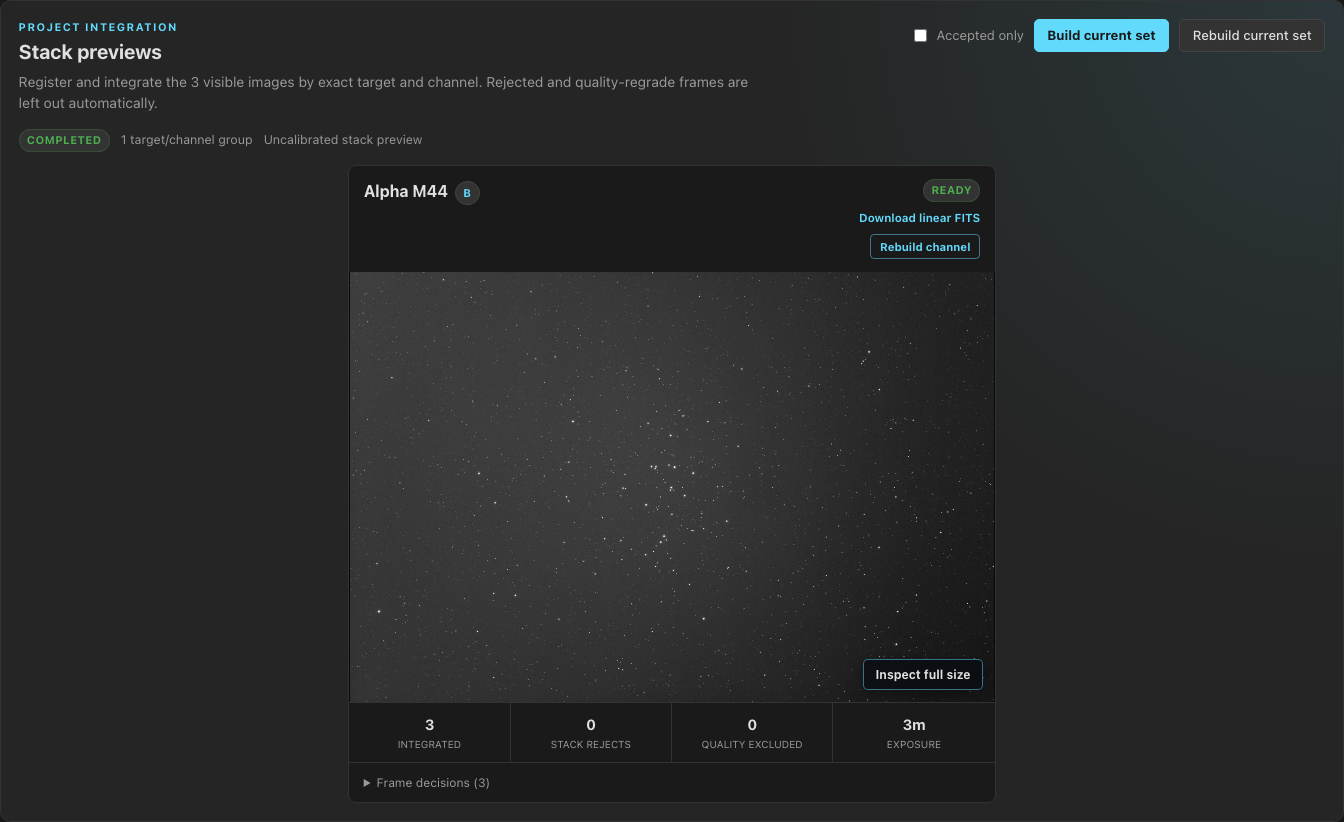
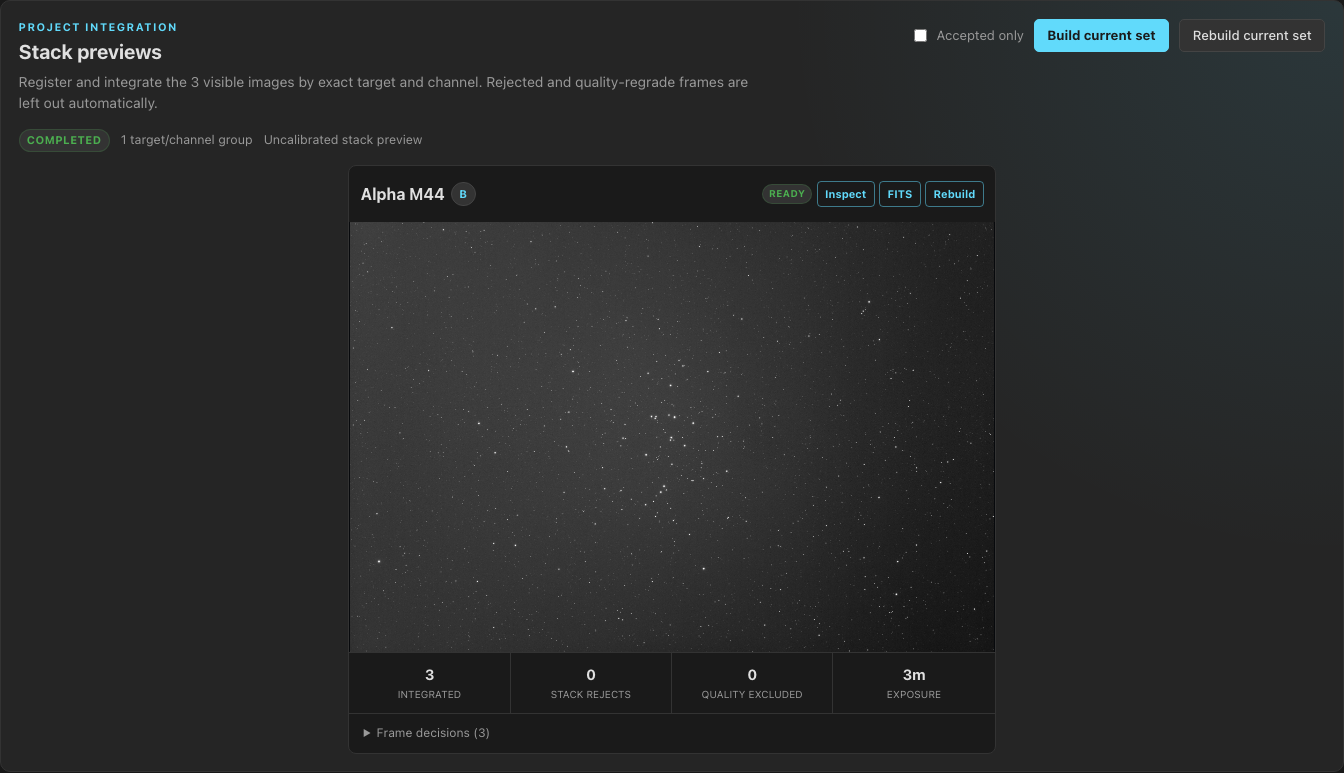
Compact stack previews and advance Seiza

diff --git a/static/src/App.css b/static/src/App.css
@@ -2659,17 +2659,60 @@
 
 .stack-preview-card > header {
   display: flex;
-  align-items: flex-start;
+  align-items: center;
   justify-content: space-between;
-  gap: 1rem;
-  padding: 0.8rem 0.9rem;
+  gap: 0.65rem;
+  min-height: 40px;
+  padding: 0.5rem 0.7rem;
+}
+
+.stack-preview-card-title {
+  min-width: 0;
+  display: flex;
+  align-items: center;
+  gap: 0.4rem;
 }
 
 .stack-preview-card-actions {
   display: flex;
-  align-items: flex-end;
-  gap: 0.45rem;
-  flex-direction: column;
+  flex-shrink: 0;
+  align-items: center;
+  justify-content: flex-end;
+  gap: 0.3rem;
+}
+
+.stack-preview-card-actions .stack-group-state {
+  padding: 0.12rem 0.35rem;
+  font-size: 0.61rem;
+}
+
+.stack-preview-card-action {
+  min-height: 26px;
+  display: inline-flex;
+  align-items: center;
+  justify-content: center;
+  box-sizing: border-box;
+  padding: 0.25rem 0.45rem;
+  border: 1px solid var(--color-primary-alpha-50);
+  border-radius: 4px;
+  color: var(--color-primary);
+  background: transparent;
+  cursor: pointer;
+  font-size: 0.68rem;
+  font-weight: 700;
+  line-height: 1;
+  text-decoration: none;
+  white-space: nowrap;
+}
+
+.stack-preview-card-action:hover:not(:disabled) {
+  color: var(--color-bg-primary);
+  background: var(--color-primary);
+}
+
+.stack-preview-card-action:disabled {
+  cursor: not-allowed;
+  opacity: 0.5;
 }
 
 .stack-preview-download {
@@ -2682,27 +2725,6 @@
 .stack-preview-download:hover {
   text-decoration: underline;
 }
-
-.stack-preview-channel-build {
-  padding: 0.32rem 0.55rem;
-  border: 1px solid var(--color-primary-alpha-50);
-  border-radius: 4px;
-  color: var(--color-primary);
-  background: transparent;
-  font-size: 0.7rem;
-  font-weight: 700;
-}
-
-.stack-preview-channel-build:hover:not(:disabled) {
-  color: var(--color-bg-primary);
-  background: var(--color-primary);
-}
-
-.stack-preview-channel-build:disabled {
-  cursor: not-allowed;
-  opacity: 0.5;
-}
-
 .stack-preview-outdated-count {
   padding: 0.15rem 0.45rem;
   border: 1px solid var(--color-warning);
@@ -2726,7 +2748,15 @@
   font-size: 1rem;
 }
 
+.stack-preview-card-title h3 {
+  overflow: hidden;
+  margin-right: 0;
+  text-overflow: ellipsis;
+  white-space: nowrap;
+}
+
 .stack-preview-channel {
+  flex-shrink: 0;
   color: var(--color-primary);
 }
 
@@ -2739,7 +2769,6 @@
 }
 
 .stack-preview-image {
-  position: relative;
   overflow: hidden;
 }
 
@@ -2748,27 +2777,6 @@
   width: 100%;
   height: 100%;
   object-fit: contain;
-}
-
-.stack-preview-inspect {
-  position: absolute;
-  right: 0.75rem;
-  bottom: 0.75rem;
-  padding: 0.45rem 0.7rem;
-  color: var(--color-text-primary);
-  background: rgb(8 12 17 / 84%);
-  border: 1px solid var(--color-primary-alpha-50);
-  border-radius: 5px;
-  box-shadow: 0 4px 14px rgb(0 0 0 / 36%);
-  font-size: 0.75rem;
-  font-weight: 700;
-  backdrop-filter: blur(5px);
-}
-
-.stack-preview-inspect:hover {
-  color: var(--color-bg-primary);
-  background: var(--color-primary);
-  border-color: var(--color-primary);
 }
 
 .stack-preview-placeholder {

diff --git a/static/src/components/StackPreviewPanel.tsx b/static/src/components/StackPreviewPanel.tsx
@@ -376,7 +376,7 @@ export default function StackPreviewPanel({
                     key={key}
                   >
                     <header>
-                      <div>
+                      <div className="stack-preview-card-title">
                         <h3>{targetName}</h3>
                         <span className="stack-preview-channel">{filterName || 'No filter'}</span>
                       </div>
@@ -385,8 +385,19 @@ export default function StackPreviewPanel({
                           {activeGroup?.state ?? group?.state ?? 'not built'}
                         </span>
                         {artifact && (
+                          <button
+                            className="stack-preview-card-action"
+                            type="button"
+                            aria-label="Inspect full size"
+                            title="Inspect full size"
+                            onClick={() => setInspector(artifact)}
+                          >
+                            Inspect
+                          </button>
+                        )}
+                        {artifact && (
                           <a
-                            className="stack-preview-download"
+                            className="stack-preview-card-action"
                             href={apiClient.getStackFitsUrl(
                               dbId,
                               artifact.jobId,
@@ -394,22 +405,26 @@ export default function StackPreviewPanel({
                               artifact.artifactRevision
                             )}
                             download
+                            aria-label="Download linear FITS"
+                            title="Download linear FITS"
                           >
-                            Download linear FITS
+                            FITS
                           </a>
                         )}
                         {current && (
                           <button
-                            className="stack-preview-channel-build"
+                            className="stack-preview-card-action"
                             type="button"
                             disabled={running || !canBuildChannel}
+                            aria-label={artifact ? 'Rebuild channel' : 'Build channel'}
+                            title={artifact ? 'Rebuild channel' : 'Build channel'}
                             onClick={() => beginChannel(current, Boolean(artifact))}
                           >
                             {groupBusy || (startPending && startVariables?.operationKey === key)
-                              ? 'Building channel…'
+                              ? 'Building…'
                               : artifact
-                                ? 'Rebuild channel'
-                                : 'Build channel'}
+                                ? 'Rebuild'
+                                : 'Build'}
                           </button>
                         )}
                       </div>
@@ -428,13 +443,6 @@ export default function StackPreviewPanel({
                           )}
                           alt={`${targetName} ${filterName} uncalibrated stack preview`}
                         />
-                        <button
-                          className="stack-preview-inspect"
-                          type="button"
-                          onClick={() => setInspector(artifact)}
-                        >
-                          Inspect full size
-                        </button>
                       </div>
                     )}
                     {!artifact && groupBusy && (

diff --git a/src/astrometry.rs b/src/astrometry.rs
@@ -2648,6 +2648,10 @@ mod tests {
             .unwrap();
 
         let context = AstrometryContext::new(AstrometryConfig {
+            // Keep unspecified resources inside this fixture. Otherwise a
+            // developer's installed Seiza bundle can make hinted solving
+            // appear available and turn this format test machine-dependent.
+            data_dir: Some(directory.path().to_string_lossy().into_owned()),
             objects: Some(objects_path.to_string_lossy().into_owned()),
             ..Default::default()
         });
@@ -2676,7 +2680,6 @@ mod tests {
             .unwrap();
         assert!(objects.validated);
         assert_eq!(objects.status, AstrometryResourceStatus::Available);
-        assert!(validation.all_configured_valid);
     }
 
     #[test]

diff --git a/src/server/stack_preview.rs b/src/server/stack_preview.rs
@@ -38,7 +38,7 @@ use crate::server::extract::DbContext;
 use crate::server::handlers::AppError;
 use crate::server::state::AppState;
 
-pub const SEIZA_STACKING_VERSION: &str = "0.1.0-git-18aa9b8";
+pub const SEIZA_STACKING_VERSION: &str = "0.1.0-git-065af44";
 /// Bump whenever stack admission, rendering, or persisted artifact semantics
 /// change. This deliberately versions PSF Guard policy separately from Seiza.
 const STACK_PREVIEW_CACHE_VERSION: u32 = 4;